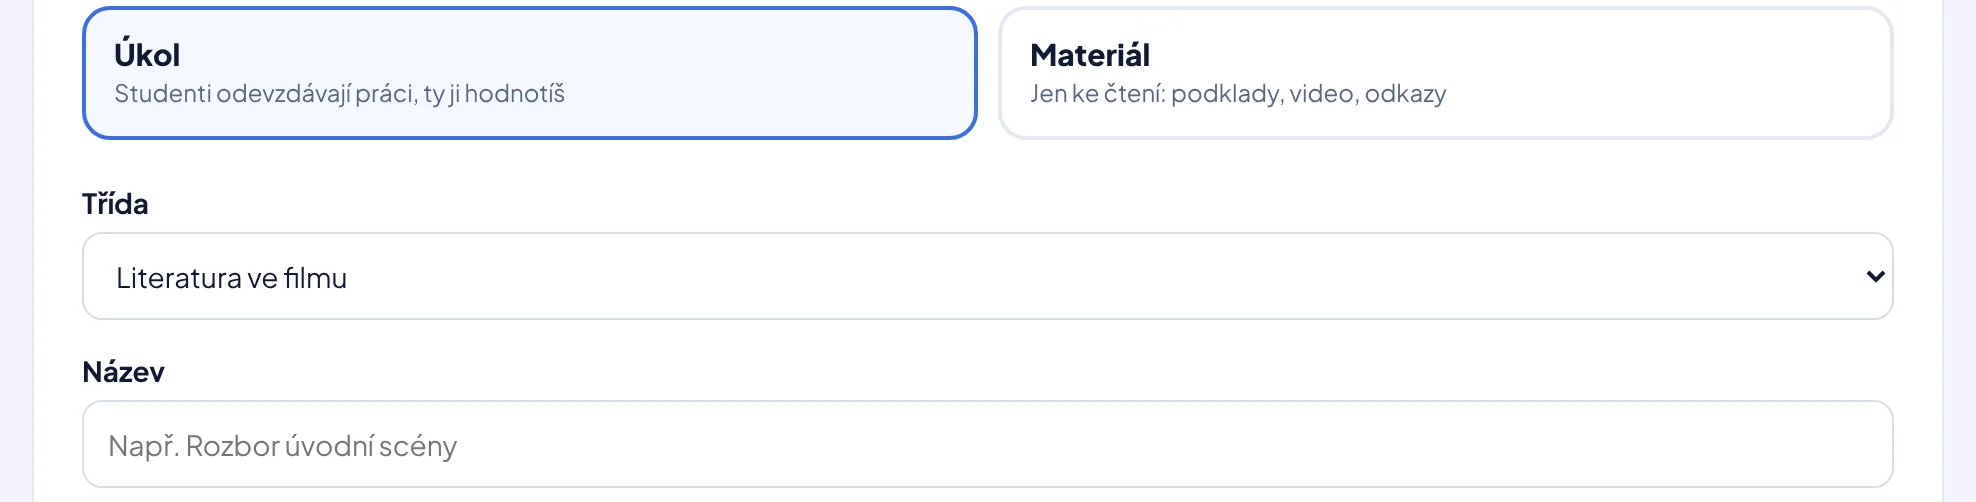
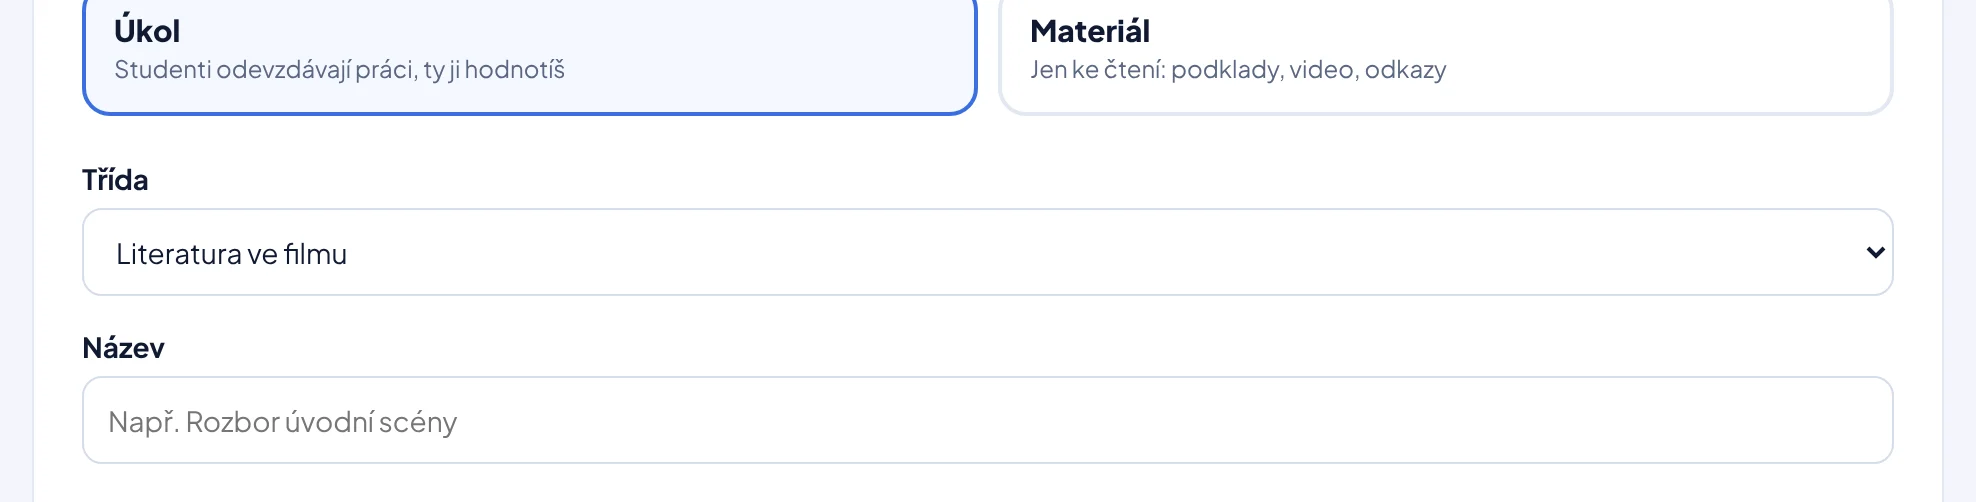
Nápověda: u výběru třídy zvýraznit jen pole, ne celý blok s popiskem
Claude-Session: https://claude.ai/code/session_01S4k3G4RvgMHKPCyowCDzNN

diff --git a/src/lib/help/guides.ts b/src/lib/help/guides.ts
@@ -217,7 +217,7 @@ export const HELP_GUIDES: HelpGuide[] = [
           goto: "/ukoly/novy?trida=literatura-ve-filmu",
           area: { css: "main form" },
           maxHeight: 250,
-          target: { css: "label:has(select)" },
+          target: { css: "label:has(select) select" },
           action: "point",
         },
       },
